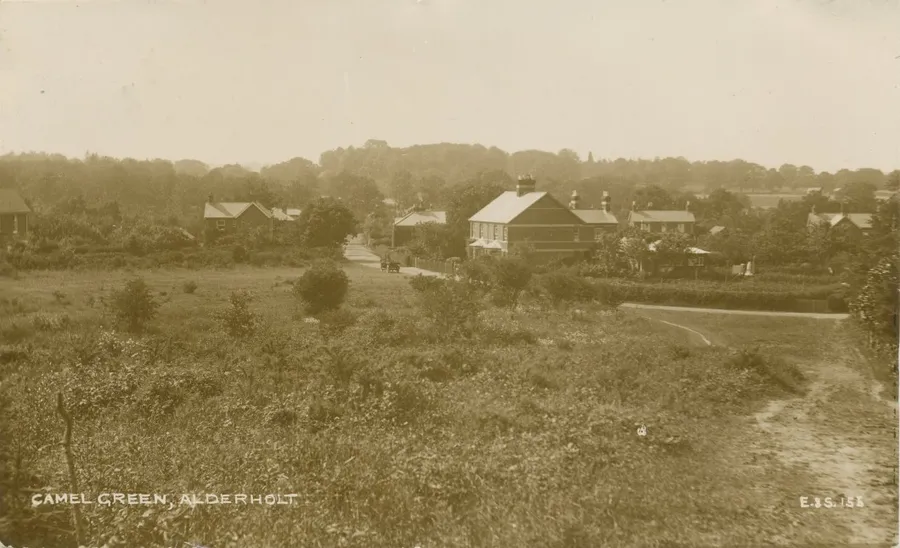
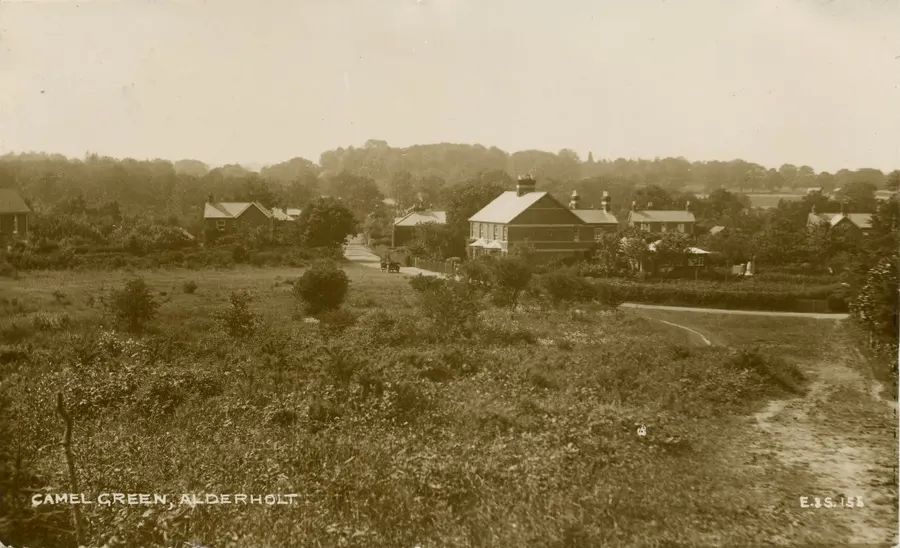
aharc 2021-01-Enclosures-and-Commons ai check, image curves

diff --git a/archive/2021-01-Enclosures-and-Commons/index.html b/archive/2021-01-Enclosures-and-Commons/index.html
@@ -56,12 +56,12 @@
         <blockquote>
           <p>There once was lanes in nature’s freedom dropt,</p>
           <p>There once was paths that every valley wound, </p>
-          <p>Inclosure came and every path was stopt;</p>
+          <p>Inclosure came, and every path was stopt;</p>
           <p>Each tyrant fixt his sign where pads was found</p>
           <p>To hint a trespass now who cross’d the ground:</p>
           <p>Justice is made to speak as they command</p>
           <p>The high road now must be each stinted bound:</p>
-          <p>Inclosure thou’rt a curse upon the land</p>
+          <p>Inclosure, thou’rt a curse upon the land,</p>
           <p>And tastless was the wretch who thy existence plann’d.</p>
           <p>(Early Poems, II, 170)</p>
         </blockquote>
@@ -74,9 +74,9 @@
           </figure>
         </div>
 
-        <p>In 1848 the population of Alderholt was 404. Most were living along Alderholt Street now Sandleheath Road and at Alderholt Corner now Presseys Corner. If you stood at Presseys Corner 170 years ago and looked over what is now Windsor Way you would see a different scene than you see today. You would be facing an area of Heathland. The track that is now Station Road ended on the Heath after a short distance.</p>
+        <p>In 1848 the population of Alderholt was 404. Most were living along Alderholt Street now Sandleheath Road and at Alderholt Corner now Presseys Corner. If you stood at Presseys Corner 170 years ago and looked over what is now Windsor Way you would see a different scene from thee one you see today. You would be facing an area of Heathland. The track that is now Station Road ended on the Heath after a short distance.</p>
 
-        <p>This part of the Alderholt Heath in the southern part of the parish was enclosed by act of parliament in 1858 and divided up into large near-rectangular fields of two to twenty acres. This action provoked much opposition among the cottagers as they took it as an invasion of their common rights. The cottagers were farmers who had leased plots of land on lives on easy terms from the Lord of the Manor and the life could be renewed on payment of a fine.</p>
+        <p>This part of the Alderholt Heath in the southern part of the parish was enclosed by Act of Parliament in 1858 and divided up into large near-rectangular fields of two to twenty acres. This action provoked much opposition among the cottagers as they took it as an invasion of their common rights. The cottagers were farmers who had leased plots of land on lives on easy terms from the Lord of the Manor and the life could be renewed on payment of a fine.</p>
 
         <figure>
           <img src="Image04.webp" alt="A view of new cottages looking across the common at Camel Green">
@@ -84,7 +84,7 @@
           </figcaption>
         </figure>
 
-        <p>Upon their holdings the people built a cottage and though they may have had to toil as hard as any labourer there was a feeling of independence. The house often a poor one with mud wall was their own in a sense. So were the fields which they or their fathers had enclosed from the surrounding wastes of heath and furze. From this waste they eked a living. But enclosure changed all this. As they fell the holdings were attached to adjacent farms and the cottages allowed to tumble down.</p>
+        <p>Upon their holdings the people built a cottage and though they may have had to toil as hard as any labourer there was a feeling of independence. The house, often a poor one with mud wall, was their own in a sense. So were the fields which they or their fathers had enclosed from the surrounding wastes of heath and furze. From this waste they eked a living. But enclosure changed all this. The holdings were attached to adjacent farms and the cottages allowed to tumble down.</p>
 
         <figure>
           <img src="Image03.webp" alt="Another view of Camel Green">
@@ -92,7 +92,7 @@
           </figcaption>
         </figure>
 
-        <p>A typical example is that of Starvington Farm on Batterley Drove. It is long since gone and the land attached to another farm.</p>
+        <p>A typical example is that of Starvington Farm on Batterley Drove. It is long gone and the land is attached to another farm.</p>
 
         <p> With the building of the new road along the northern edge the freeholders began to build many cottages. Among these the largest landowners were Mr. Churchill and Lord Salisbury.</p>
 
@@ -104,18 +104,18 @@
           </figure>
         </div>
 
-        <p>As more land was enclosed more cottages were built. Alderholt Street ceased to be the main area of population and settlement along the Fordingbridge – Cranborne road became the village centre. Most of the enclosed land has been in-filled with the developments of the last thirty years but it was still possible to trace the original field boundaries in the 1960’s but it is beginning to get harder.</p>
+        <p>As more land was enclosed more cottages were built. Alderholt Street ceased to be the main area of population and settlement along the Fordingbridge – Cranborne road became the village centre. Most of the enclosed land has been in-filled with developments of the last thirty years but in the 1960s it was still possible to trace the original field boundaries, but it is getting harder.</p>
 
 
         <div class="content-item narrow">
           <figure>
             <img src="Image08.webp" alt="Starvington Farm">
-            <figcaption>Starvington Farm. OS 25 inch 1892 – 1914
+            <figcaption>Starvington Farm. OS 25 inch 1892–1914
             </figcaption>
           </figure>
         </div>
 
-        <p>But there still existed plots of land not owned by anybody where common law still stood. Rodney Legg says in Dorset Commons and Greens</p>
+        <p>But there still existed plots of land not owned by anybody where common law still stood. Rodney Legg says in <em>Dorset Commons and Greens</em></p>
 
         <blockquote>
           <p>“What is remarkable is that so little of Dorset Heaths were protected under the commons registration act 1965. The result is that in 200 years 130 square miles of heathland has been lost to development.”</p>
@@ -124,7 +124,7 @@
         <p>Rodney Legg also said that:</p>
 
         <blockquote>
-          <p>“Alderholt was the most vigilant parish in the county during the commons registration of 1967 – 70.”</p>
+          <p>“Alderholt was the most vigilant parish in the county during the commons registration of 1967–70.”</p>
         </blockquote>
 
         <div class="content-item narrow">
@@ -146,6 +146,8 @@
           <li>King Barrow Hill – 23.62 acres at King Barrow Hill – CL 253 and CL 162 </li>
           <li>War Memorial – 0.05 acres at the War Memorial – CL 159 </li>
           <li>Wastelands – 34.1 acres of wasteland in Cranborne and Alderholt Parishes in an extensive pattern of roadside verges and includes Crendell Common – CL 127 </li>
+          <li>VG-Village Green, CL-Common Land
+          </li>
         </ul>
 
         <figure>
